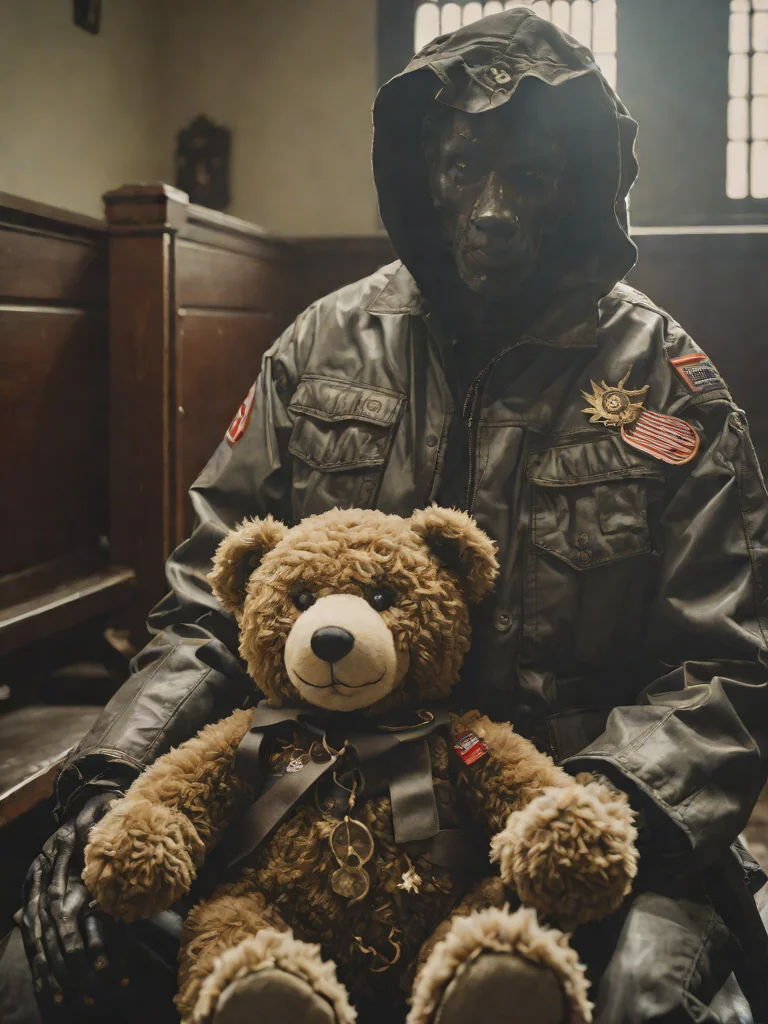
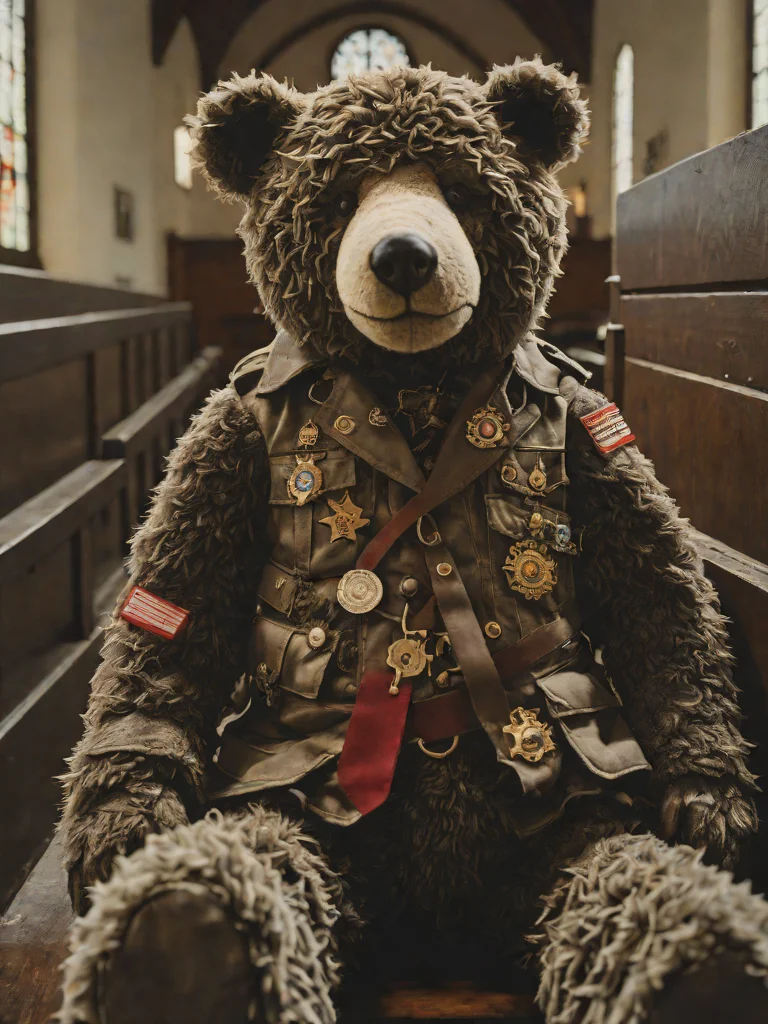
Make three off-model cards render as teddy bears
A full audit of the committed deck found three creature cards that did not
show a teddy at all:

  #2 Feral Tim          a real, live raccoon
  #6 Shit-Talk Sally    a human woman screaming into a mic
  #18 Grandpa Warcrimes a hooded human soldier holding a teddy

Each had a specific trigger in its prompt, and the negative prompt could not
help: it bans "human, person", but negatives do nothing at turbo's guidance
0.0, so wording is the only lever.

  #2  fur was "raccoon grey". Colour is deliberately stated twice at the very
      front of every prompt, the most heavily weighted position, so the word
      "raccoon" summoned the animal. Now "ash grey", with plush anchors
      (matted plush, mismatched button eyes, stitched mouth).
  #6  "extreme close-up on the face", plus a human name, gold hoop earrings and
      a karaoke stage, read as a person. Now a medium shot of "the bear" with
      round felt ears and a stitched snarl, mic in paw.
  #18 "shielding a fallen comrade with his own body" added a second figure;
      the model made the soldier human and demoted the bear to the comrade.
      Now the old bear alone, mid war-story, beside a burst pillow.

Re-rendered on the same per-card seeds with the deck's default config
(sdxl-turbo fp16, 4 steps, guidance 0.0), so they sit with the rest of the
set. #6 and #18 keep their jokes; #2 is now a distinct shaggy ash-grey teddy,
though turbo at guidance 0 ignores pose, so "feral" lands in the fur rather
[…]

diff --git a/src/data/cardArt.js b/src/data/cardArt.js
@@ -17,11 +17,11 @@
 
 export const CARD_ART = {
   1: { fur: "chocolate brown", visual: "barrel-chested bear, torn ear, novelty condom necklace, brass knuckles gripped in one paw", scene: "Low hero angle on the bar top under amber jukebox glow, Ted cracking a beer bottle over a rival's head mid-swing." },
-  2: { fur: "raccoon grey", visual: "tiny runt bear, ragged fingerless gloves, mystery stains, feral claw scratches, chewed leash trailing behind", scene: "Wide full-body shot under a single bare bulb, Feral Tim scurrying across the bar top on all fours." },
+  2: { fur: "ash grey", visual: "feral runt teddy, wild bristling matted plush, crazed mismatched button eyes, snarling stitched mouth, fingerless gloves, chewed leash", scene: "Wide full-body shot under a single bare bulb, hunched low on the bar top, ready to pounce." },
   3: { fur: "cream white", visual: "squat fat bear, chubby cheeks, mismatched button eyes, stained bowling shirt unbuttoned dangerously low", scene: "Reflection in a cracked bathroom-stall mirror under sickly green fluorescent light, Fluffy flexing for an audience of nobody." },
   4: { fur: "rust red", visual: "lanky bear, black eye, missing teeth, sleeveless flannel unbuttoned over a regrettable tattoo", scene: "Dutch tilt over the pool table under amber jukebox glow, Barry mid-swing with a snapped pool cue." },
   5: { fur: "faded plum", visual: "scrawny bear, stitched muzzle scar, cracked glasses, snitch's clipboard, informant's wire taped to his chest", scene: "Shot through a doorway into bachelor-party wreckage under a swinging bare bulb, Stitches hiding under a table clutching his clipboard." },
-  6: { fur: "faded pink", visual: "lanky bear, permanent snarl, gold hoop earrings, popped-collar leather jacket, finger cocked like a threat", scene: "Extreme close-up on the face under hot pink neon on the karaoke stage, Sally jabbing a finger nose-to-nose at an off-frame rival." },
+  6: { fur: "faded pink", visual: "lanky teddy, round felt ears, stitched snarl, popped-collar leather jacket, paw cocked like a threat", scene: "Medium shot on the karaoke stage under hot pink neon, the bear jabbing a paw at an off-frame rival, mic in the other." },
   7: { fur: "moss green", visual: "scrawny moth-eaten bear, trench coat collar turned up, binoculars around his neck, someone else's bra in one pocket", scene: "Over-the-shoulder shot in a filthy bathroom stall lit by a red exit-sign glow, Pete peering through the gap." },
   8: { fur: "charcoal grey", visual: "barrel-chested bear, cauliflower ear, duct-taped cardboard breastplate, wrestling singlet riding up uncomfortably", scene: "Wide full-body shot over the pool table under sickly green fluorescent light, Cuddles mid-suplex hoisting a rival overhead." },
   9: { fur: "dirty white", visual: "squat bear, cracked plastic nose, torn pillowcase seam, rusty shiv, prison-shower flip-flops", scene: "Low hero angle in a seedy motel room under a single bare bulb, Shiv lunging with a blade from the pillowcase." },
@@ -33,7 +33,7 @@ export const CARD_ART = {
   15: { fur: "dusty plum", visual: "lanky bear, shifty glance, briefcase handcuffed to his wrist, sunglasses indoors, tie loosened like a noose", scene: "Paparazzi flash in a parking lot under blue-and-red cop lights, Teddy shredding documents while backing toward the fire exit." },
   16: { fur: "ash blonde", visual: "hulking bear, cracked monocle, dented armor breastplate under a torn velvet coat, tiara bent sideways", scene: "Security-camera angle on a strip-club stage lit by hot pink neon, Fluffington dragged out by two bouncers by the collar." },
   17: { fur: "dark auburn", visual: "hulking bear, glazed unfocused eyes, shredded Hawaiian shirt, empty liquor bottles strung as a necklace, one shoe missing", scene: "Worm's-eye view of a parking lot under moonlight through a broken window, Bjorn passed out face-down in a spreading beer puddle." },
-  18: { fur: "gunmetal silver", visual: "broad bear, bandaged head, tattered army-surplus jacket heavy with medals, dentures rattling in a shirt pocket", scene: "Harsh overhead light in a church pew at dawn through the blinds, Grandpa shielding a fallen comrade with his own body." },
+  18: { fur: "gunmetal silver", visual: "broad old teddy, stitched seams, bandaged head, tattered army-surplus jacket heavy with medals, dentures in a shirt pocket", scene: "Harsh overhead light in an empty church pew at dawn, the old bear alone mid war-story beside a burst pillow." },
   19: { fur: "bone pale", visual: "lanky bear, stitched-shut eye, tattered black hooded robe, rusty sewing-scissors scythe, court summons pinned to his chest", scene: "Extreme close-up on the face in a drunk tank under a red exit-sign glow, The Seam Reaper looming over a chalk outline." },
   20: { fur: "oxblood brown", visual: "over-stuffed bear, gold chains, pinstripe suit straining at the seams, fat cigar, pinky ring the size of a doughnut", scene: "Over-the-shoulder shot on the casino floor under a spinning disco ball, The Godfluffer holding court from a corner booth." },
   21: { fur: "soot blackened", visual: "hulking bear, cracked aviator sunglasses, bandolier of grenades, camo headband, cigar clenched like a general", scene: "Shot through a smoke-filled doorway in a back alley under flickering strip light, Fluffpocalypse wading out in slow motion." },
